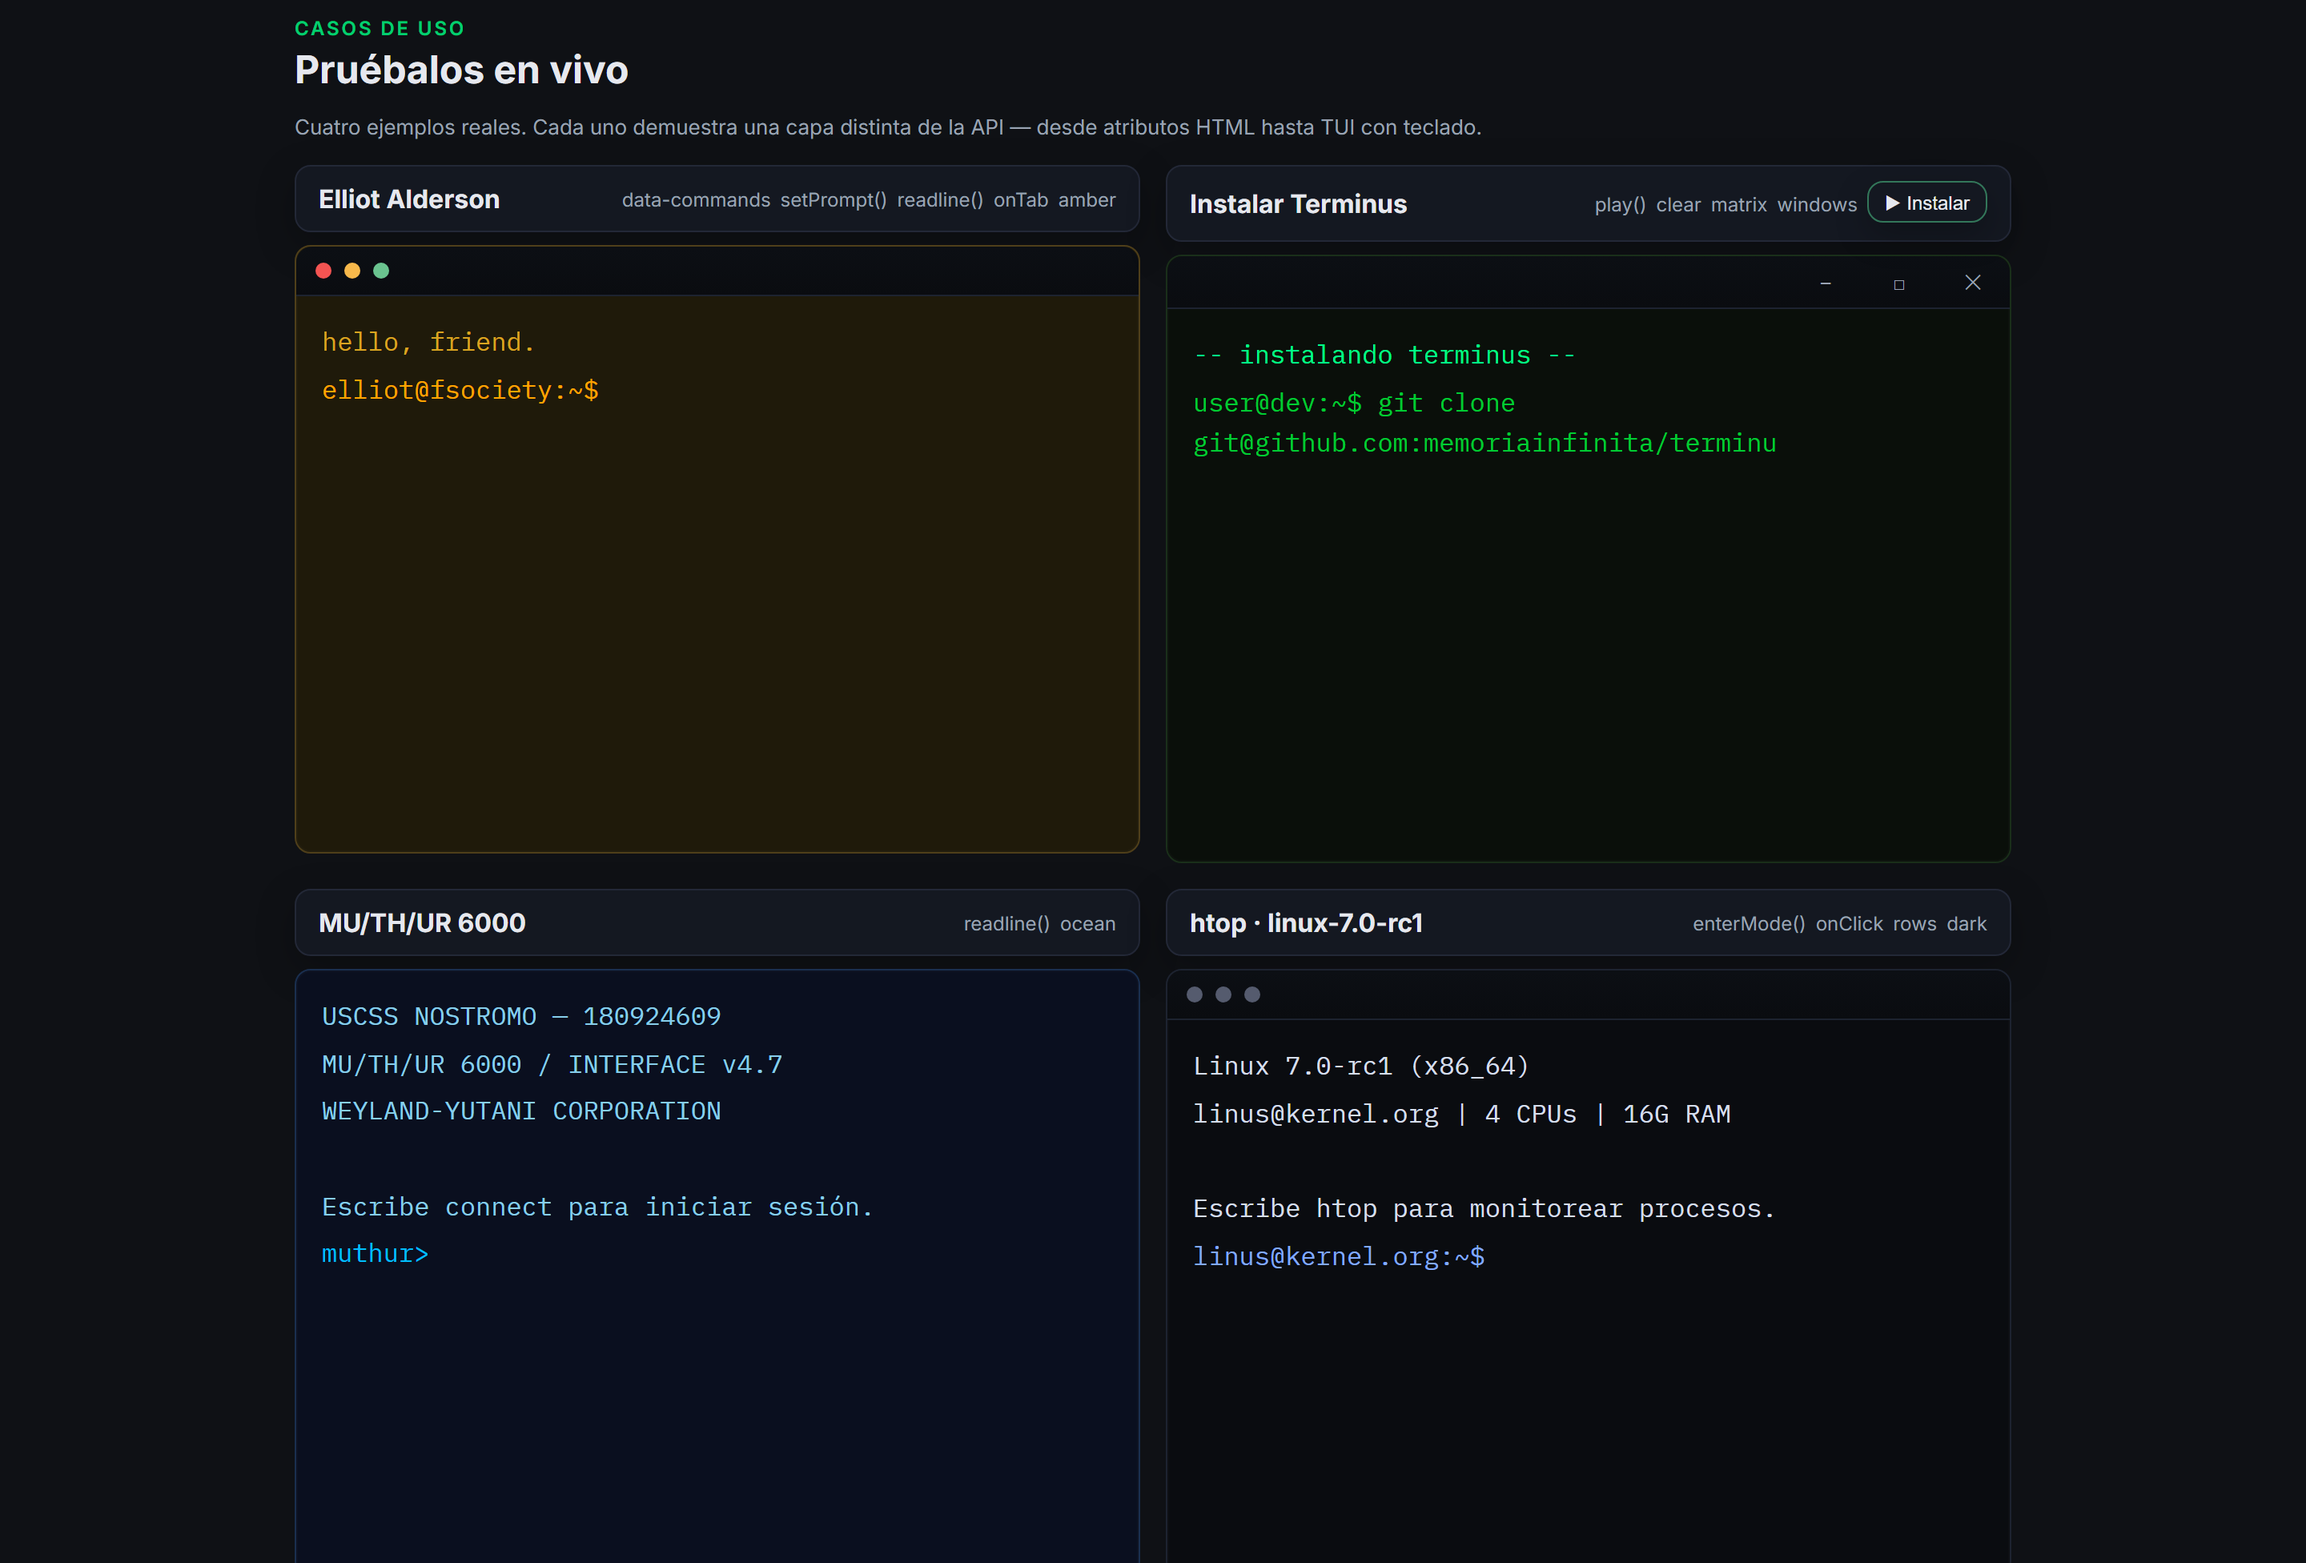
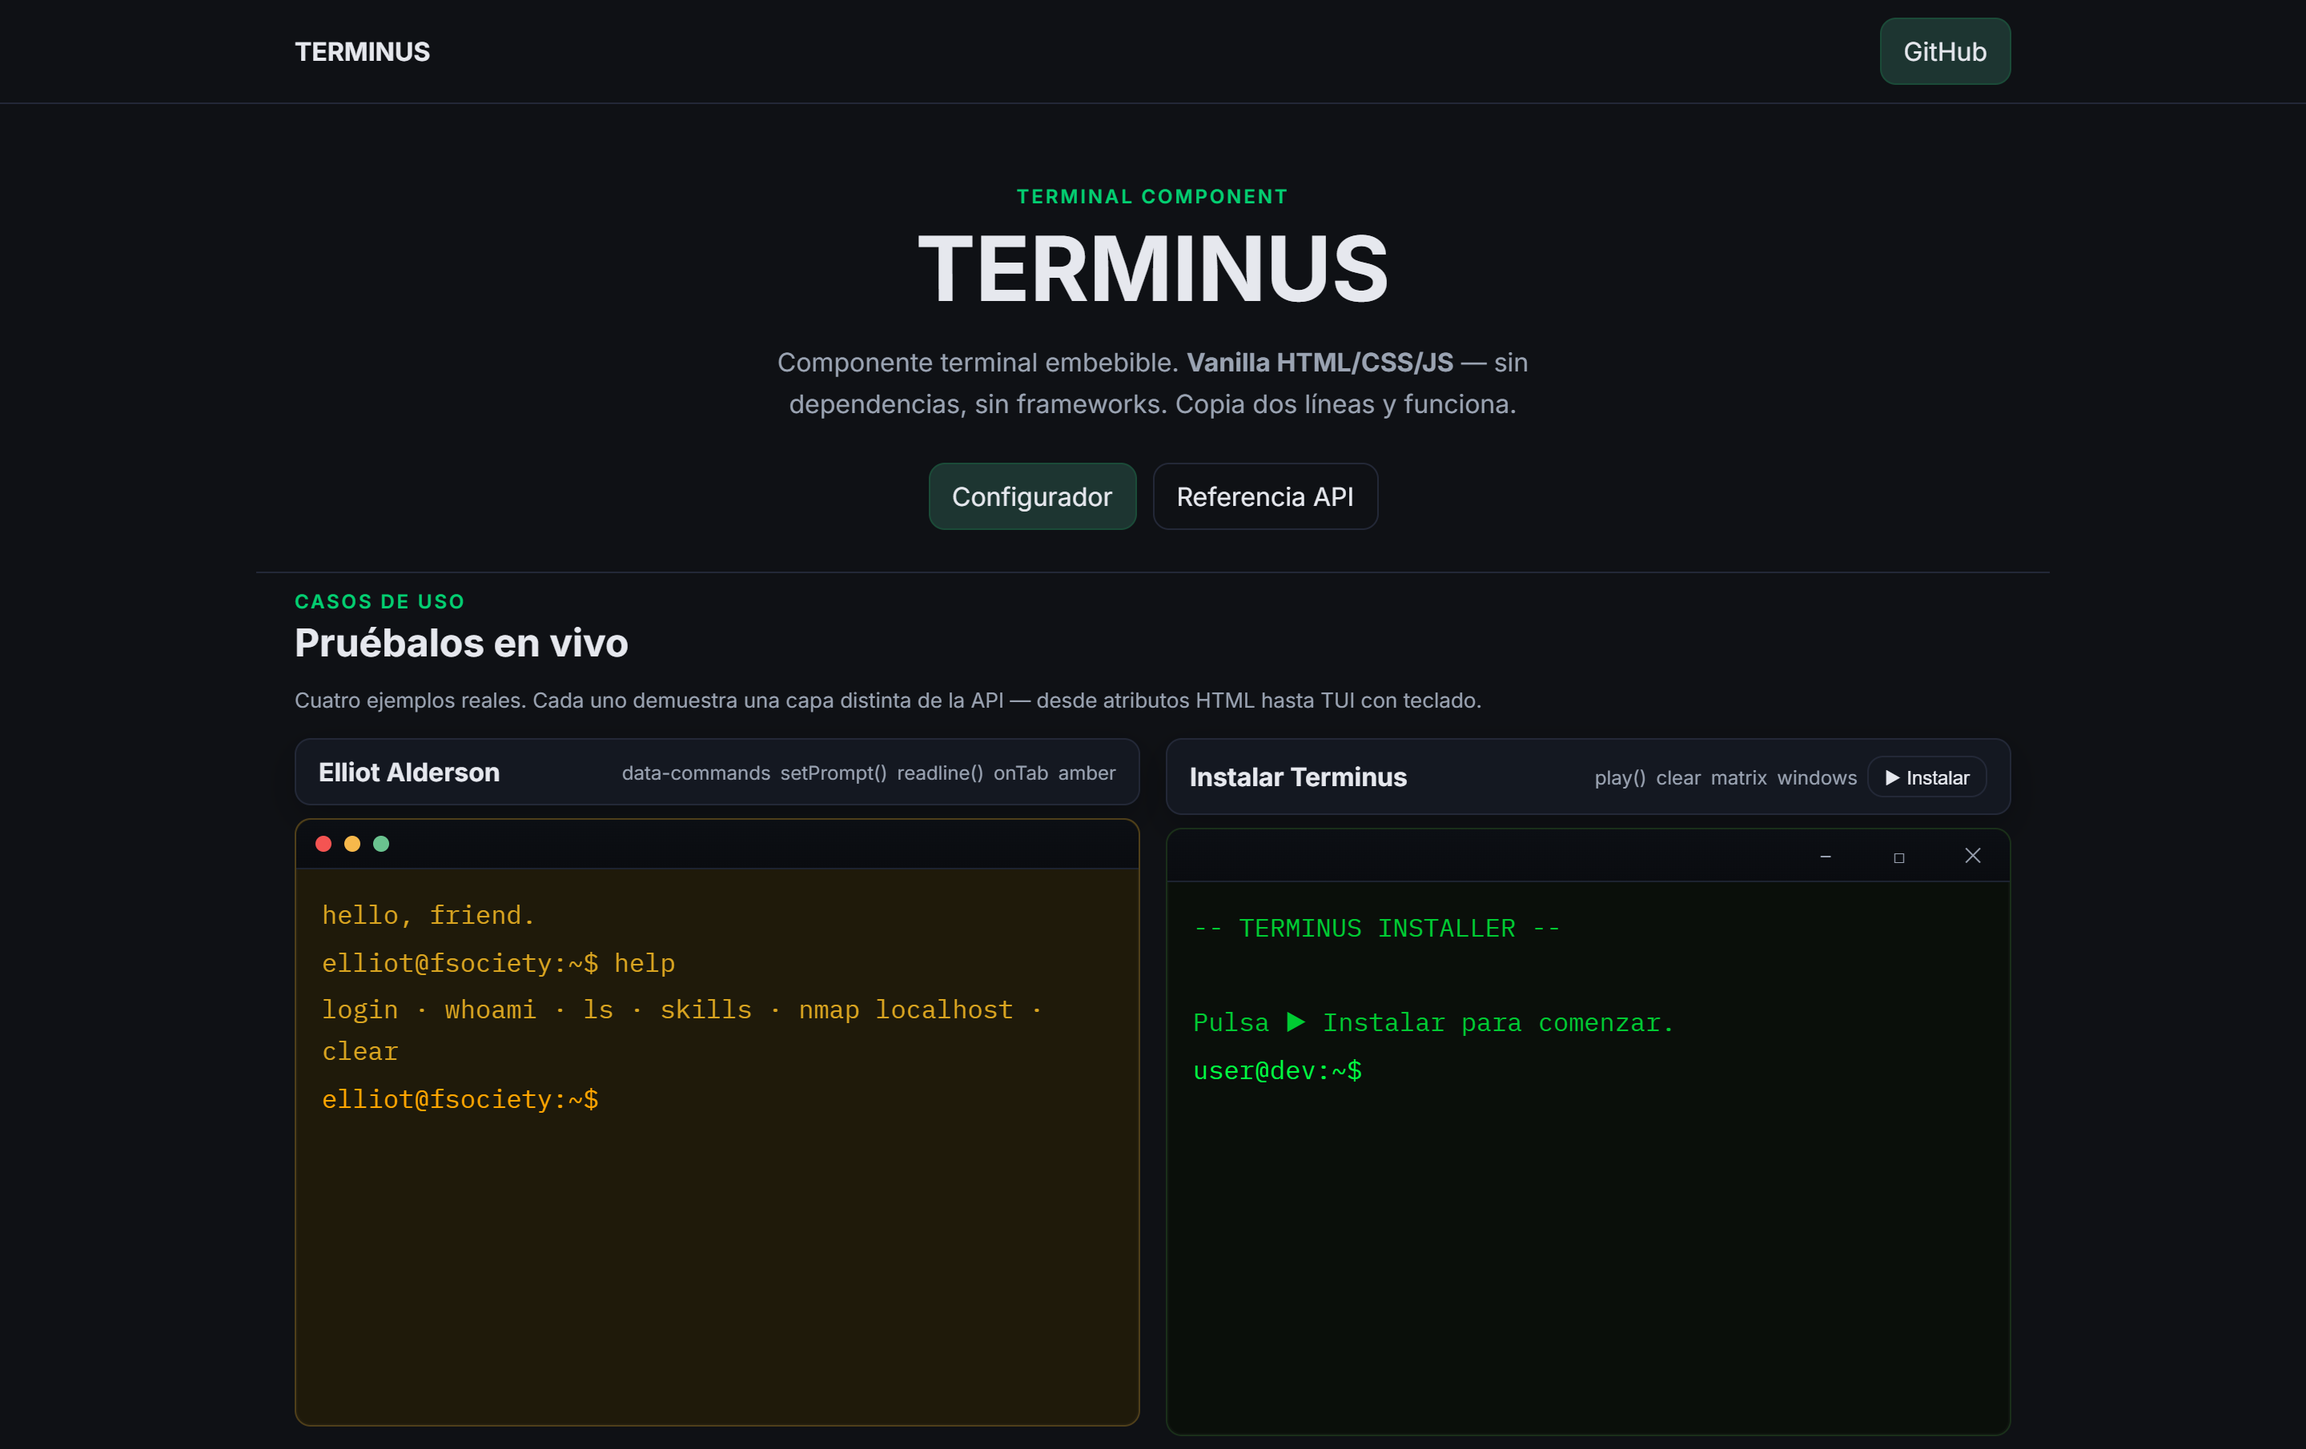
docs: retake README screenshot with header and first examples
Claude-Session: https://claude.ai/code/session_01HnLzpDGR1vSjmr97MgNN8R

diff --git a/README.md b/README.md
@@ -9,7 +9,7 @@ Terminal embebible para la web. Vanilla HTML/CSS/JS — sin dependencias, sin fr
 
 **[Ver la demo](https://memoriainfinita.github.io/terminus/)**
 
-![Cuatro terminus en la página de ejemplos, cada uno con una capa distinta de la API: atributos HTML, play(), readline() y modo TUI](docs/terminus-demo.png)
+![La página de terminus: la cabecera y los dos primeros casos de uso, uno con el comando help ya ejecutado y el instalador esperando a play()](docs/terminus-demo.png)
 
 ## Instalación
 
